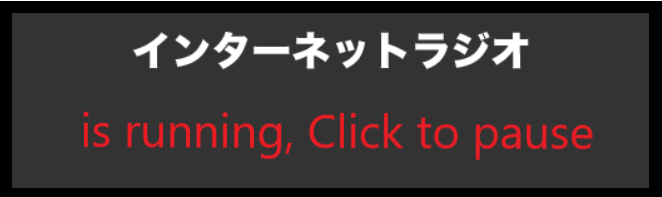
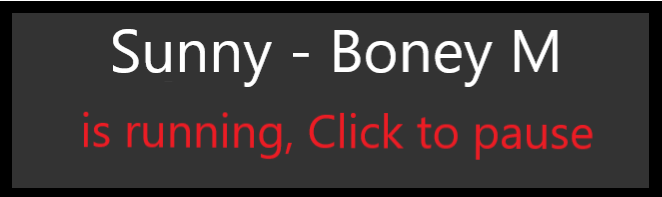
update

Changed region(s): [[0.1511, 0.1218, 0.8459, 0.4569]]

diff --git a/demo.html b/demo.html
@@ -1,16 +1,81 @@
-
 <!DOCTYPE html>
 <html lang="en">
-<head>
-  <meta charset="UTF-8">
-  <meta http-equiv="X-UA-Compatible" content="IE=edge">
-  <meta name="viewport" content="width=device-width, initial-scale=1.0">
-  <title>Document</title>
-</head>
-<body>
-  <video height="800px" width="370px" controls >
-    <source src="Source/video.mp4" type="video/mp4">
-   
-  </video>
-</body>
+  <head>
+    <meta charset="UTF-8" />
+    <meta http-equiv="X-UA-Compatible" content="IE=edge" />
+    <meta name="viewport" content="width=device-width, initial-scale=1.0" />
+    <title>Document</title>
+    <style>
+      @import url("https://fonts.googleapis.com/css2?family=Sacramento&display=swap");
+
+      .container2,
+      .button2,
+      .sun,
+      .button span {
+        position: absolute;
+      }
+      body .container2 {
+        margin: auto;
+        top: 0;
+        left: 0;
+        right: 0;
+        bottom: 0;
+        width: 200px;
+        height: 200px;
+      }
+      .container2 .a:hover .sun {
+        bottom: 176px;
+        transition: all 1s ease-in-out;
+        box-shadow: 0px 0px 10px #ffdc2a;
+      }
+      .container2 .a:hover .button2 {
+        box-shadow: 0px 0px 36px #c80de0;
+        transition: all 1s ease-in-out;
+      }
+      .container2 .sun {
+        width: 64px;
+        height: 64px;
+        left: 55px;
+        bottom: 136px;
+        background: linear-gradient(180deg, #ffdc2a 0%, #fb2182 41.54%);
+        box-shadow: 0px 0px 36px #ffdc2a;
+        z-index: 2;
+        border-radius: 65px;
+        transition: all 1s ease-in-out;
+      }
+      .container2 .button2 {
+        width: 171px;
+        height: 65px;
+        background: #2c0055;
+        box-shadow: 0px 0px 16px #c80de0;
+        border-radius: 2px;
+        z-index: 3;
+        border: 2px solid;
+        transition: all 1s ease-in-out;
+        border-image: linear-gradient(#360154, #d442d5) 30;
+      }
+      .container2 .button2 span {
+        text-align: center;
+        font-family: "Sacramento", cursive;
+        left: 56px;
+        font-size: 35px;
+        line-height: 70px;
+        margin: 0 auto;
+        transition: all 0.3s ease-in-out;
+        background: -webkit-linear-gradient(#ffdc2a, #fb2182);
+        -webkit-background-clip: text;
+        -webkit-text-fill-color: transparent;
+      }
+    </style>
+  </head>
+  <body>
+    <div class="container2">
+      <div class="a">
+        <div class="button2">
+          <span>Sun</span>
+        </div>
+        <div class="sun"></div>
+      </div>
+    </div>
+  </body>
 </html>

diff --git a/case-study.css b/case-study.css
@@ -22,6 +22,76 @@ input[type="text"] {
 input[type="text"]:focus {
   width: 140%;
 }
+.listenradio{
+  float: left;
+  margin-left: 46em;
+}
+iframe{
+  height: 500px;
+  width: 700px;
+  margin-left: 25em;
+ 
+  
+}
+/* beautiful button */
+@import url("https://fonts.googleapis.com/css2?family=Sacramento&display=swap");
+
+      .container2,
+      .button2,
+      .sun,
+      .button span {
+        position: absolute;
+      }
+      body .container2 {
+       margin: auto 42em;
+        width: 200px;
+        height: 200px;
+      }
+      .container2 .a:hover .sun {
+        bottom: 176px;
+        transition: all 1s ease-in-out;
+        box-shadow: 0px 0px 10px #ffdc2a;
+      }
+      .container2 .a:hover .button2 {
+        box-shadow: 0px 0px 36px #958a96;
+        transition: all 1s ease-in-out;
+      }
+      .container2 .sun {
+        width: 64px;
+        height: 64px;
+        left: 55px;
+        bottom: 136px;
+        background: linear-gradient(180deg, #ffdc2a 0%, #fb2182 41.54%);
+        box-shadow: 0px 0px 36px #ffdc2a;
+        z-index: 2;
+        border-radius: 65px;
+        transition: all 1s ease-in-out;
+      }
+      .container2 .button2 {
+        margin: auto 1.5em;
+        width: 120px;
+        height: 70px;
+        background: #88749a;
+        box-shadow: 0px 0px 16px #d5d0d5;
+        border-radius: 100px;
+        z-index: 3;
+        
+        transition: all 1s ease-in-out;
+        border-image: linear-gradient(#d8c5e2, #df1adf) 30;
+      }
+      .container2 .button2 span {
+        text-align: center;
+        font-family: "Sacramento", cursive;
+        left: 56px;
+        font-size: 35px;
+        line-height: 70px;
+       
+        margin: 0 auto;
+        transition: all 0.3s ease-in-out;
+        background: -webkit-linear-gradient(#ffdc2a, #fb2182);
+        -webkit-background-clip: text;
+        -webkit-text-fill-color: transparent;
+      }
 
 #isrun {
   float: left;
@@ -30,8 +100,13 @@ input[type="text"]:focus {
 
   padding: 0px;
 }
+#offbutton{
+  margin-left: 50em;
+  width: 15em;
+  height: 3em;
+}
 video{
- 
+  cursor: pointer;
   margin-right: 0em 0;
   padding-right: 0em;
   float: right;
@@ -73,7 +148,7 @@ video{
   margin: 0px auto;
 
   animation: blink 10s infinite;
-  -webkit-animation: blink 10s infinite;
+  -webkit-animation: blink 6s infinite;
 }
 @keyframes blink {
   0% {

diff --git a/index.html b/index.html
@@ -117,11 +117,11 @@
       <br />
 
       <div id="body2">
+       <a target="_blank" href="https://acecookvietnam.vn/san-pham/pho-de-nhat/"><video height="570px" width="370px" controls autoplay loop>
+        <source src="Source/video.mp4" type="video/mp4">
        
-        <video height="570px" width="370px" controls autoplay loop>
-          <source src="Source/video.mp4" type="video/mp4">
-         
-        </video>
+      </video></a>
+        
        
         <script src="https://cdnjs.cloudflare.com/ajax/libs/animejs/2.2.0/anime.min.js"></script>
     <script src="./script.js"></script>
@@ -154,10 +154,25 @@
                 <label for="password">Password</label>
                 <input type="password" id="password" />
                 <input type="submit" id="submit" value="Submit" />
-              </div>
+              </div><p id="demo"></p> 
             </div>
           </div>
         </div>
+        
+          <div id="nicebutton" class="container2">
+            <div class="a">
+              <div class="button2">
+                <span onclick="myFunction()">&nbsp&nbsp Now</span>
+              </div>
+              <div class="sun"></div>
+            </div>
+          </div>
+          
+         
+        <!-- </div>
+          <button onclick="myFunction()">Click me</button>
+            
+        </div> -->
         
         <br><br>
              
@@ -168,7 +183,7 @@
           id="sound"
           src="Source/Boney M (mp3cut.net).mp3"
         ></audio>
-      </div>
+      
       <br /><br /><br><br><br><br><br><br><br><br><br><br>
       <div class="container">
         <div class="row" id="product"></div>

diff --git a/case-study.js b/case-study.js
@@ -58,6 +58,16 @@ function playSound(sound) {
     song1.pause();
   }
 }
+//Make online radio
+function myFunction() {
+  document.getElementById("demo").innerHTML = `<iframe height="250px" width="550px" style="border:none;" src="https://tunein.com/radio/Azumino-FM-761-s189072/" >
+  </iframe><br><button  id="offbutton" onclick="myFunction1()">Click to off</button>`;
+  document.getElementById("nicebutton").style.display = "none";
+}
+function myFunction1() {
+  document.getElementById("demo").innerHTML = '';
+  document.getElementById("nicebutton").style.display = 'block';
+}
 
 // draw canvas
 
@@ -278,3 +288,5 @@ document.querySelector("#submit").addEventListener("focus", function (e) {
     },
   });
 });
+
+
